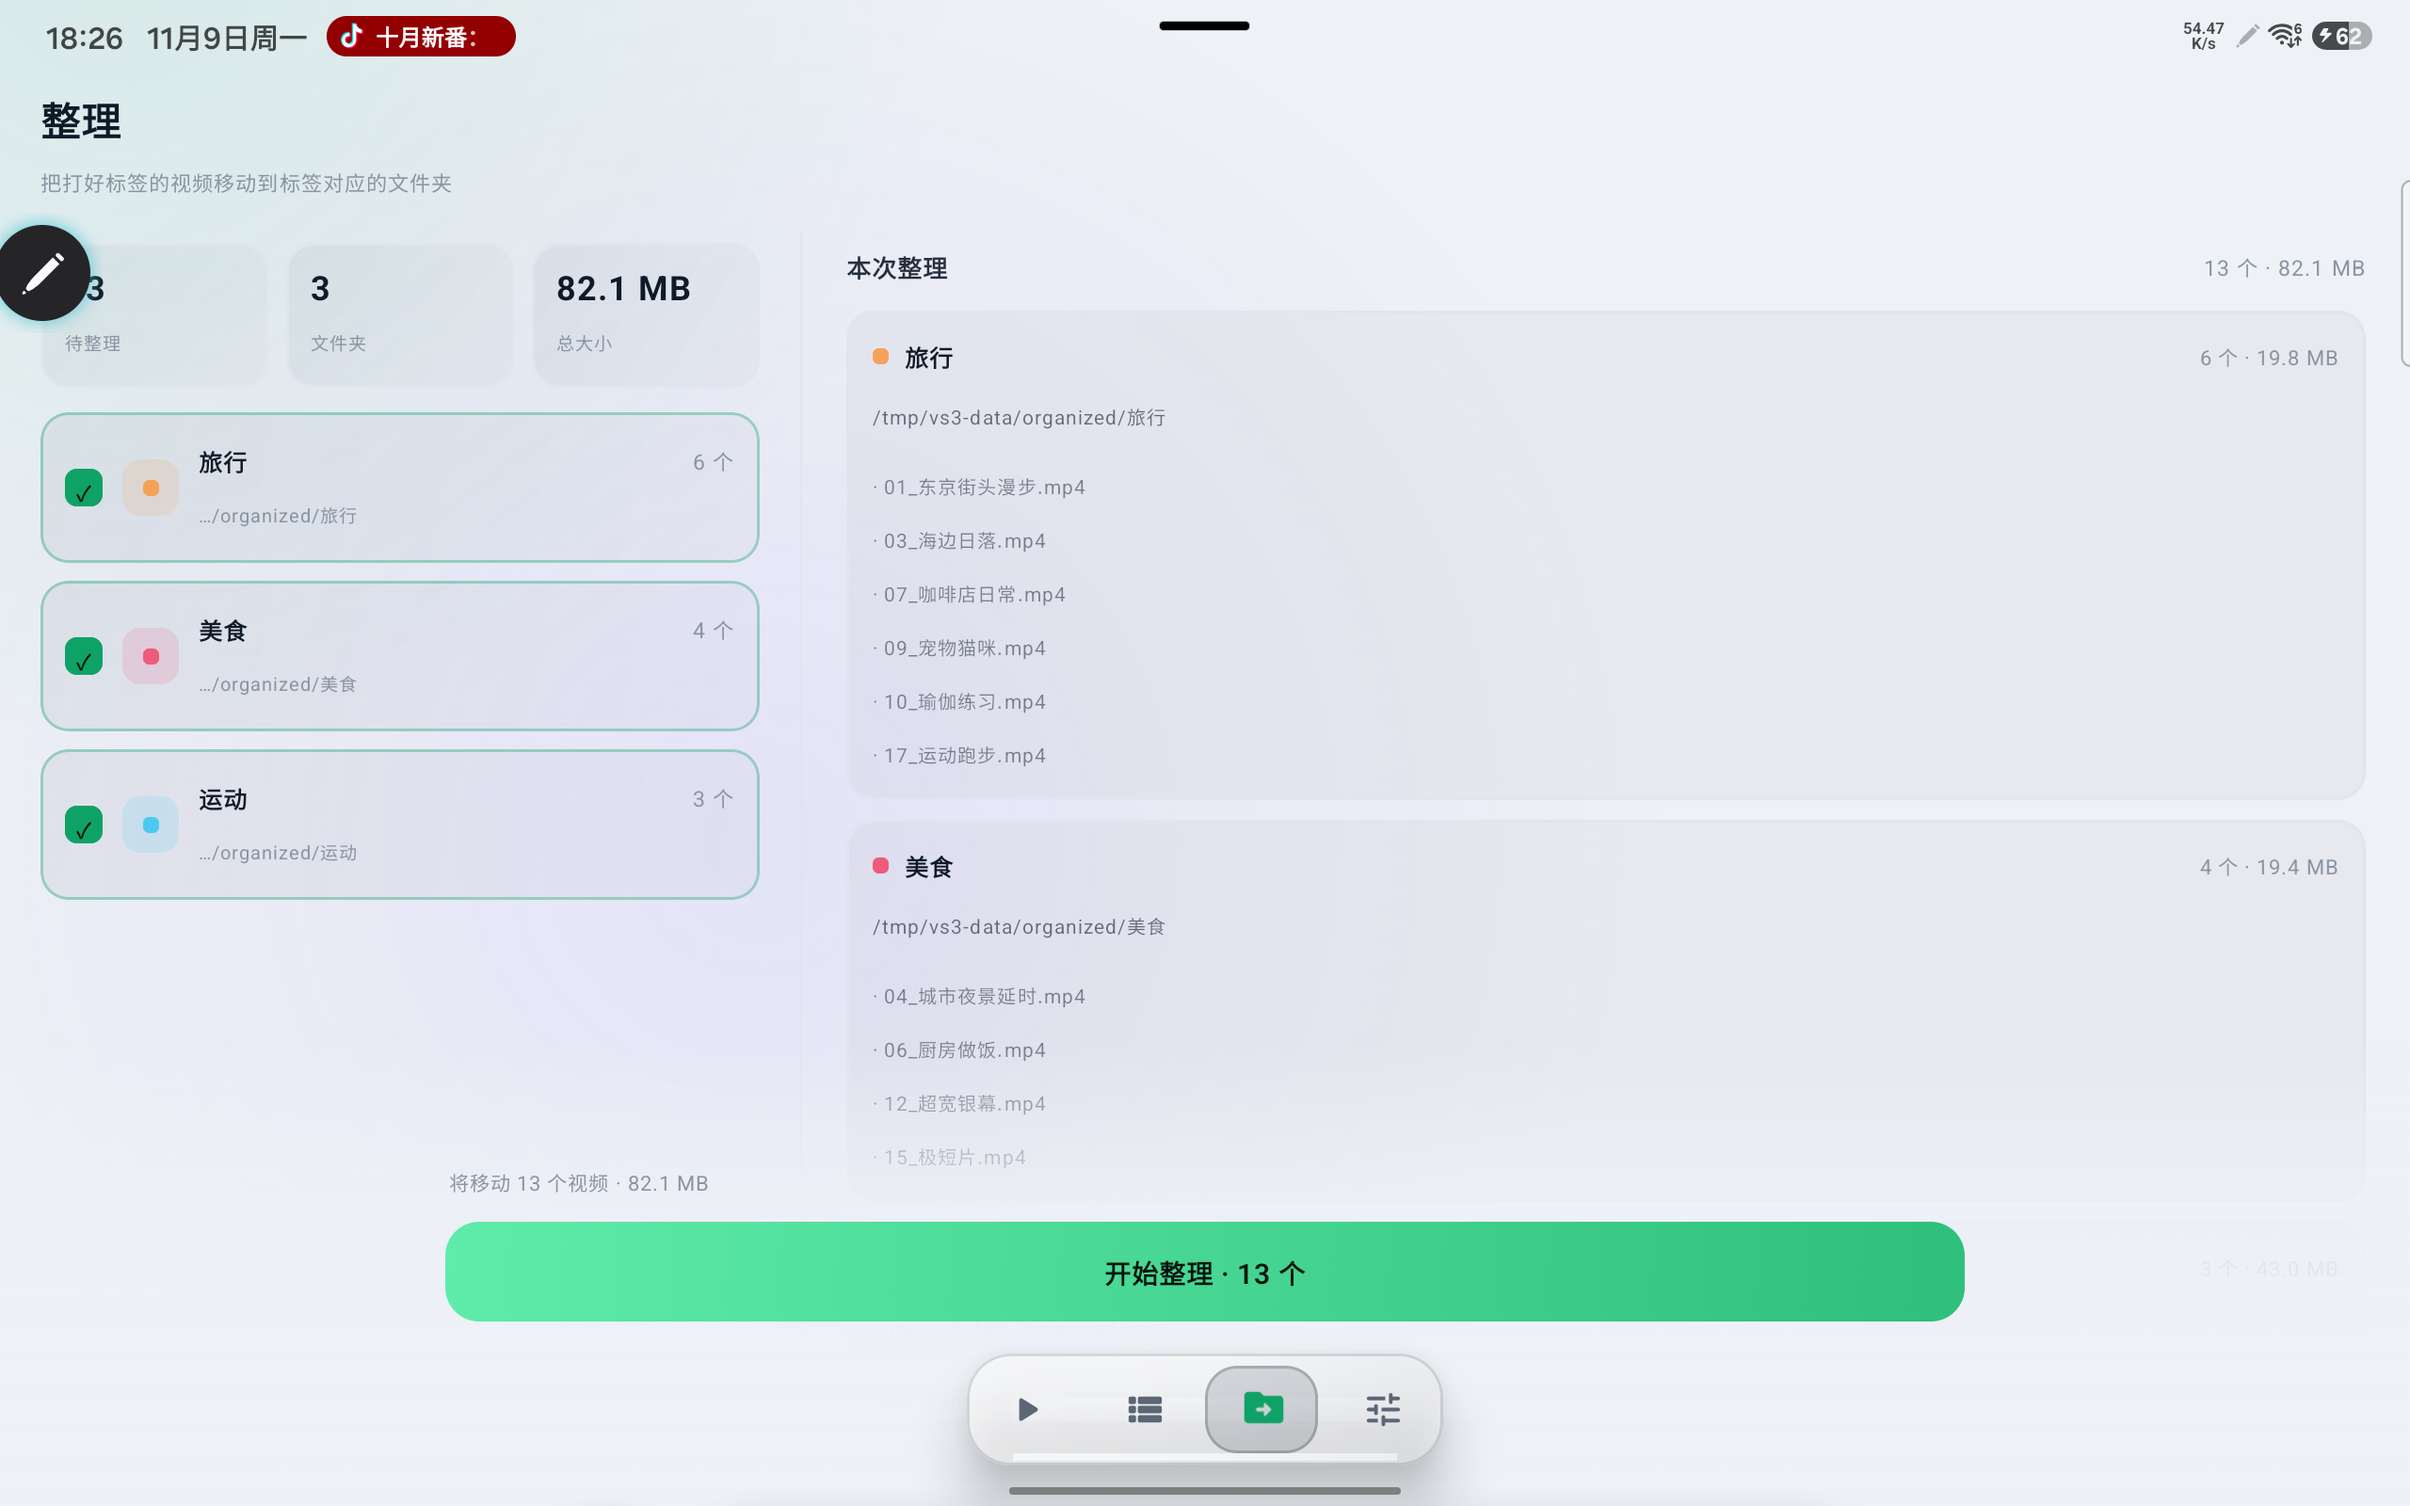
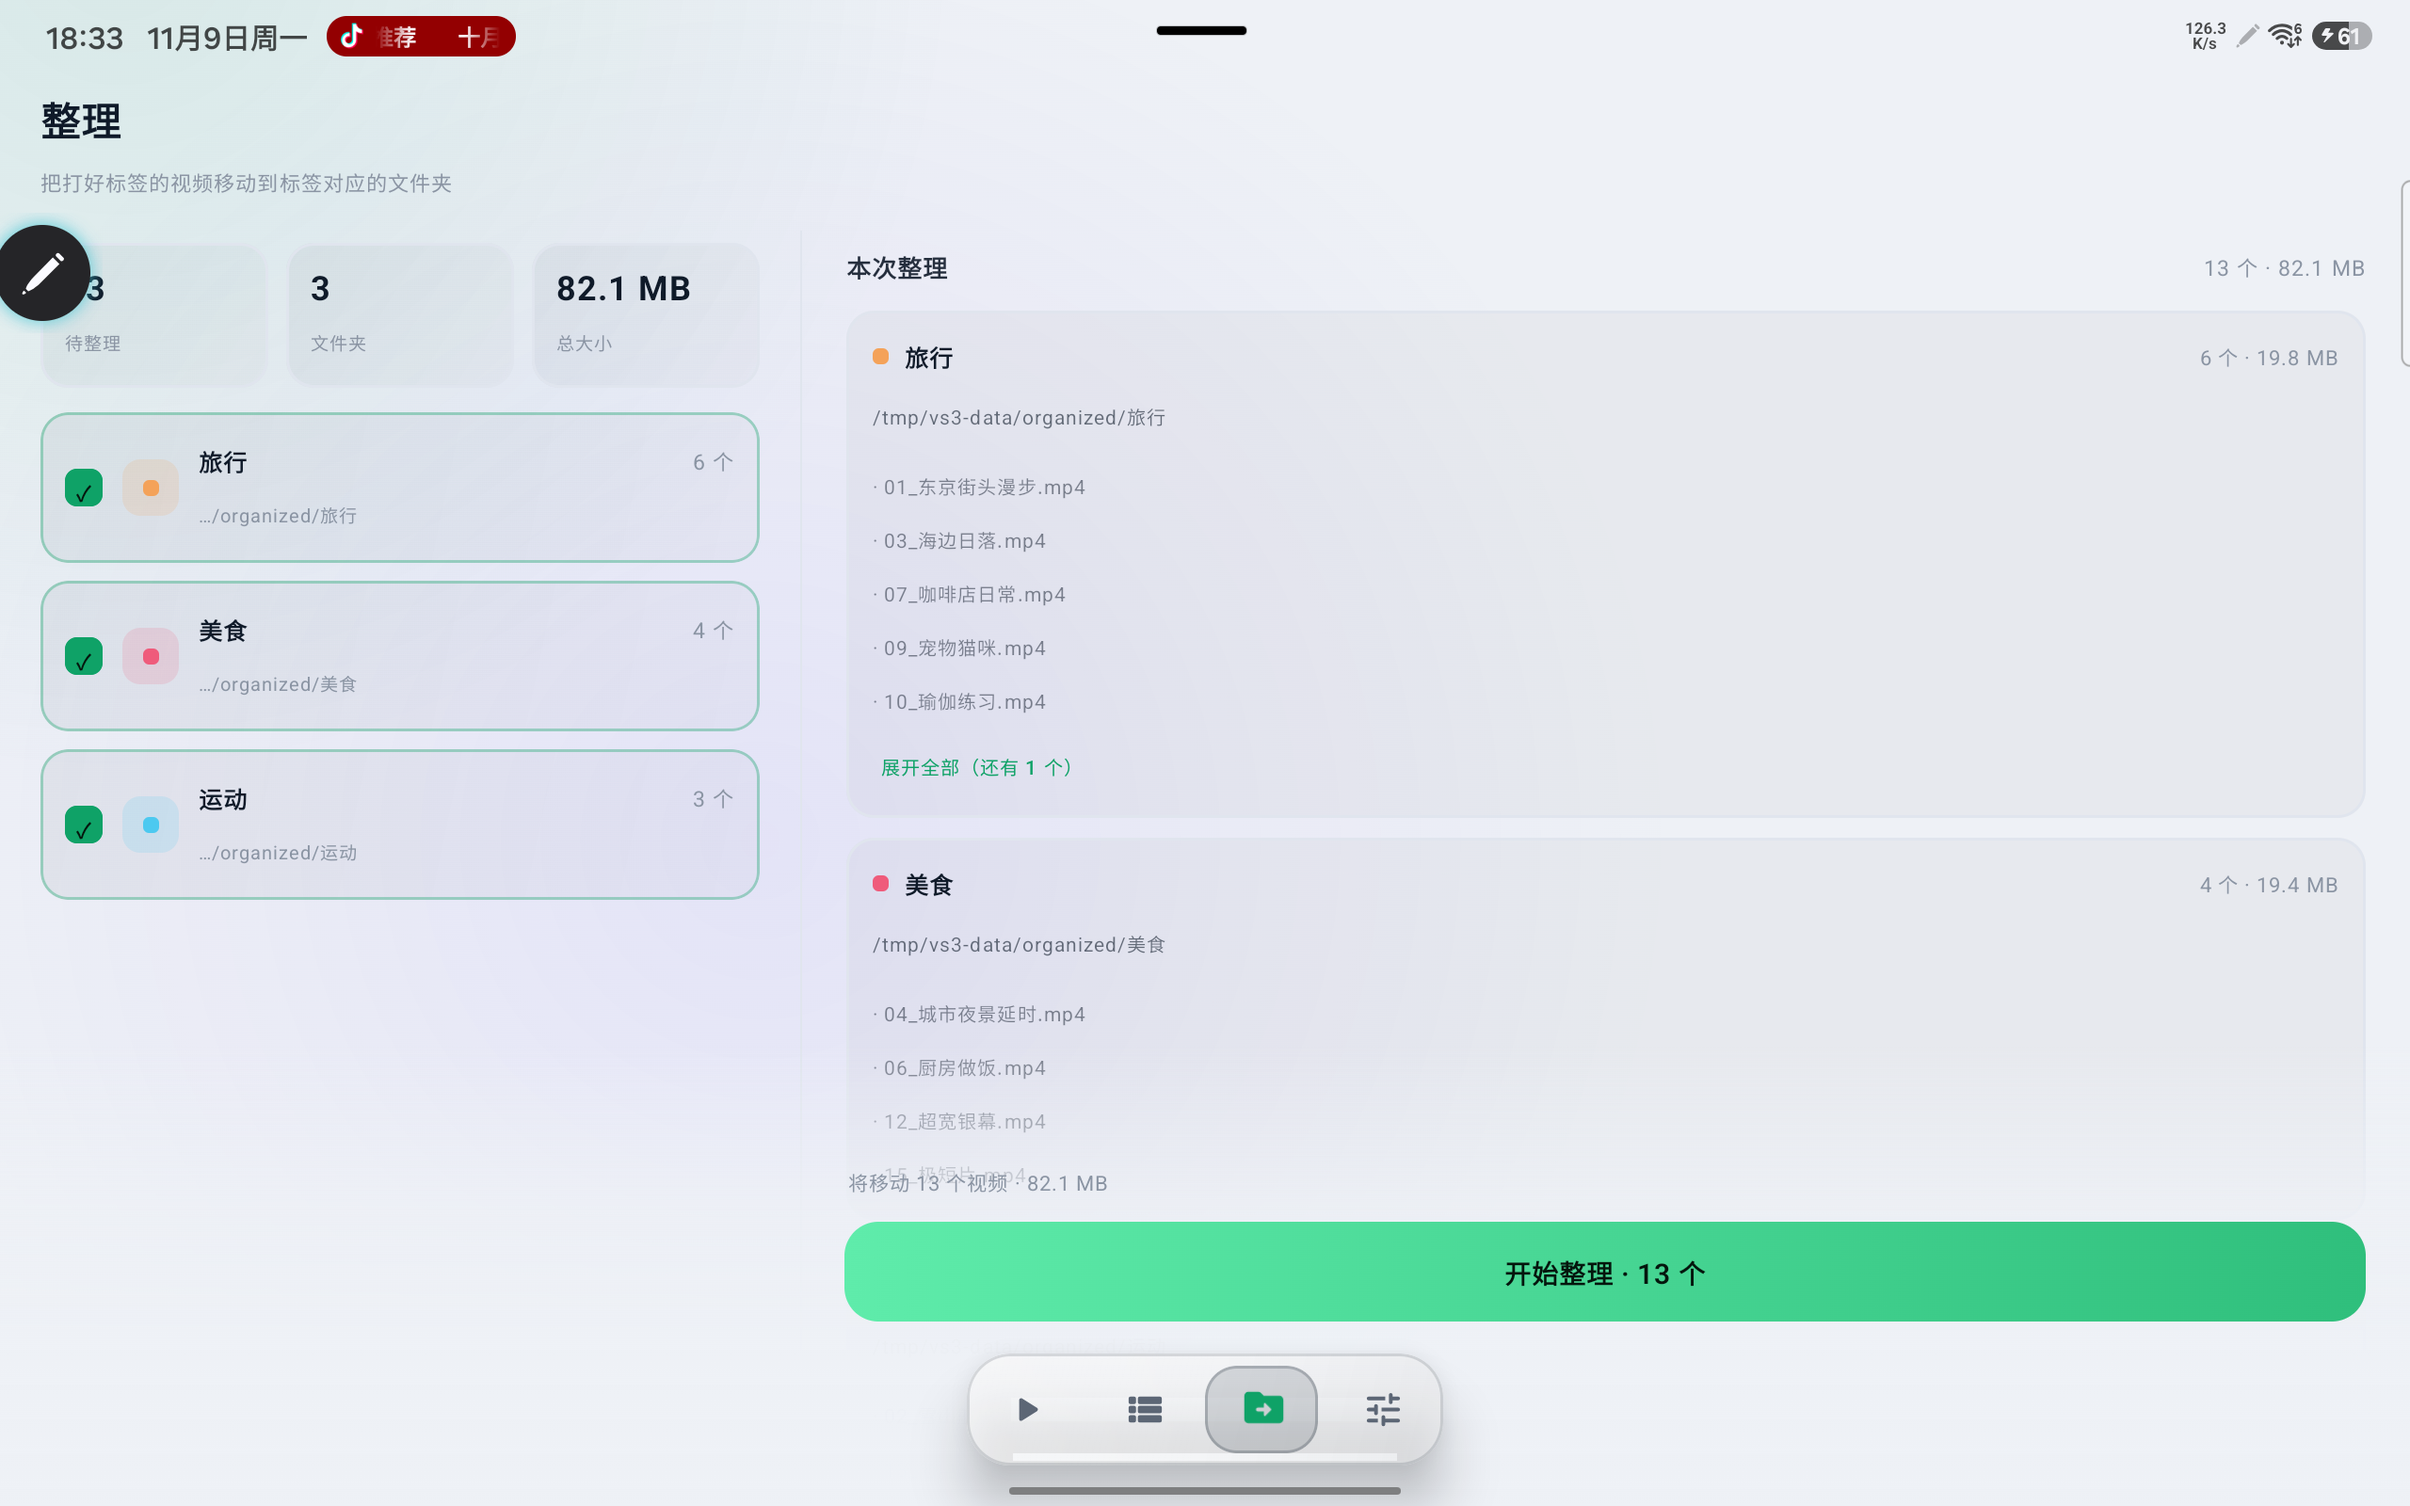
安卓：整理页右栏默认只列前 5 个视频名（可展开全部）、底部 CTA 收窄到右栏

diff --git a/android/app/src/main/java/com/videosorter/app/ui/OrganizeScreen.kt b/android/app/src/main/java/com/videosorter/app/ui/OrganizeScreen.kt
@@ -111,6 +111,8 @@ fun OrganizeScreen(
     val chosen = items.filter { it.tagId in selected }
     val chosenBytes = chosen.sumOf { it.size }
     val chosenGroups = groups.filter { it.tagId in selected }
+    // 右栏「本次整理」每组的展开状态（按标签 id 记，切换勾选后仍保留）
+    val expandedGroups = remember { androidx.compose.runtime.mutableStateMapOf<Int, Boolean>() }
 
     fun undo(r: BatchRec) {
         scope.launch {
@@ -206,7 +208,7 @@ fun OrganizeScreen(
             if (wide) {
                 Row(Modifier.fillMaxWidth().weight(1f)) {
                     // 左栏：统计 + 标签组（可勾选）
-                    Column(Modifier.width(400.dp).fillMaxSize()) {
+                    Column(Modifier.width(LEFT_COLUMN_WIDTH).fillMaxSize()) {
                         Row(
                             Modifier.fillMaxWidth().padding(horizontal = 20.dp, vertical = 6.dp),
                             horizontalArrangement = Arrangement.spacedBy(9.dp),
@@ -266,7 +268,13 @@ fun OrganizeScreen(
                                 )
                             }
                         } else {
-                            items(chosenGroups, key = { "d-${it.tagId}" }) { g -> ChosenDetail(g) }
+                            items(chosenGroups, key = { "d-${it.tagId}" }) { g ->
+                                ChosenDetail(
+                                    g = g,
+                                    expanded = expandedGroups[g.tagId] == true,
+                                    onToggle = { expandedGroups[g.tagId] = expandedGroups[g.tagId] != true },
+                                )
+                            }
                         }
                         if (records.isNotEmpty()) {
                             item(key = "rec-head") {
@@ -345,13 +353,17 @@ fun OrganizeScreen(
                 )
         )
 
-        // 底部 CTA
+        // 底部 CTA。分栏时收窄到只占右栏（左边 400dp 是标签组列表，按钮压上去会挡住勾选）
         Column(
             Modifier
                 .align(Alignment.BottomCenter)
                 .fillMaxWidth()
                 .navigationBarsPadding()
-                .padding(start = side, end = side, bottom = 92.dp)
+                .padding(
+                    start = if (wide) LEFT_COLUMN_WIDTH + 22.dp else side,
+                    end = if (wide) 22.dp else side,
+                    bottom = 92.dp,
+                )
         ) {
             if (chosen.isNotEmpty()) {
                 Text(
@@ -627,7 +639,7 @@ private fun GroupRow(g: OrgGroup, on: Boolean, showNames: Boolean = true, onClic
 
 /** 右栏里的一组详情：目标文件夹 + 这一组全部视频名。 */
 @Composable
-private fun ChosenDetail(g: OrgGroup) {
+private fun ChosenDetail(g: OrgGroup, expanded: Boolean, onToggle: () -> Unit) {
     val t = tokens()
     val c = hexColor(g.color)
     Column(
@@ -653,7 +665,9 @@ private fun ChosenDetail(g: OrgGroup) {
             modifier = Modifier.padding(top = 6.dp),
         )
         Spacer(Modifier.height(8.dp))
-        g.items.forEach { it ->
+        // 组里视频多的时候整屏都是文件名，默认只列前 5 个，需要时再展开
+        val shown = if (expanded) g.items else g.items.take(CHOSEN_PREVIEW)
+        shown.forEach { it ->
             Text(
                 "· ${it.name}",
                 color = t.ink(0.5f),
@@ -663,8 +677,27 @@ private fun ChosenDetail(g: OrgGroup) {
                 modifier = Modifier.padding(top = 3.dp),
             )
         }
+        if (g.items.size > CHOSEN_PREVIEW) {
+            val rest = g.items.size - CHOSEN_PREVIEW
+            Text(
+                if (expanded) "收起" else "展开全部（还有 $rest 个）",
+                color = t.accent,
+                fontSize = 10.sp,
+                fontWeight = FontWeight.Medium,
+                modifier = Modifier
+                    .padding(top = 6.dp)
+                    .clip(RoundedCornerShape(6.dp))
+                    .clickable(onClick = onToggle)
+                    .padding(horizontal = 4.dp, vertical = 3.dp),
+            )
+        }
     }
 }
+
+private const val CHOSEN_PREVIEW = 5
+
+/** 分栏时左栏宽度（标签组列表），CTA 与右栏都按它对齐 */
+private val LEFT_COLUMN_WIDTH = 400.dp
 
 @Composable
 private fun EmptyPlan() {

diff --git a/docs/STATUS.md b/docs/STATUS.md
@@ -34,6 +34,7 @@ chmod +x run.sh
 | 网页端 | 整理失败明细 / 不可写提示条 / 缓存设置（1.3.6） | ✅ 本机通过 | 18941 实例 + puppeteer 逐场景截图，见 `docs/screenshots/v136*.png`、`v136b-*.png` |
 | 安卓 | 四条体验改进（1.3.7：滚动位置 / 去水波 / 排序按钮 / 横屏全屏） | ✅ 真机通过 | 见下方「安卓真机实测（1.3.7）」，截图 `v136c-*.png`、`v136g-*.png`、`v137-*.png` |
 | 安卓 | 视频库去分组 + 排序（1.3.8） | ✅ 真机通过 | 37 个视频连成一条列表；四个字段与升降序切换逐一验证，截图 `v138-*.png` |
+| 安卓 | 整理页右栏默认只列前 5 个 + 展开全部、CTA 收窄到右栏（未发版） | ✅ 真机通过（Samsung SM-X810 横屏） | 组卡超过 5 个视频时出现「展开全部（还有 N 个）」/「收起」，展开状态按标签 id 记忆；底部 CTA 起边与右栏对齐，不再压住左栏标签组；竖屏不变；单测 34/34 |
 | 安卓 | 上传下载并入设置分栏 + 整理页改左右两栏（未发版） | ✅ 真机通过（Samsung SM-X810 横屏） | 上传下载在设置右侧直接展开（分段/路径/历史/＋），不再进二级页；整理页左栏勾选标签组、右栏看目标路径与视频清单、CTA 实时联动；竖屏与手机布局未变；单测 34/34；截图 `v140-tablet-{settings-transfer,organize-columns}.png` |
 | 安卓 | 横屏设置页主从分栏（未发版）：左导航 + 右详情，和网页端一致 | ✅ 真机通过（Samsung SM-X810 横屏 2560×1600） | 服务器/账号/源文件夹/标签管理/播放历史/缓存/关于 七页右侧均正常、无返回箭头；上传下载走独立全屏页；平板竖屏与手机横屏（≈392dp 高）仍是原布局；单测 34/34；产物 `videosorter-1.3.9-split-{arm64-v8a,armeabi-v7a}.apk`；截图 `v140-tablet-settings-split*.png` |
 | 安卓 | 横屏平板适配（未发版）：全 App 跟随设备旋转 / 视频库多列封面网格 / 设置页两列 / 各页限宽居中 / 底部弹层限宽 | ✅ 真机通过（Samsung SM-X810，Android 16，1600×2560，340dpi） | 横屏 4 列网格、竖屏 2 列、`wm size 1080x2340 + wm density 440`（≈392dp）模拟手机仍是单列横排无回归；设置页横屏两列竖屏单列；整理/标签/传输页内容限宽 760~780dp 居中；底部弹层 560dp；单测 34/34（修掉一条只在 11-03 当天成立的日期依赖断言）；截图 `v140-tablet-*.png` |
